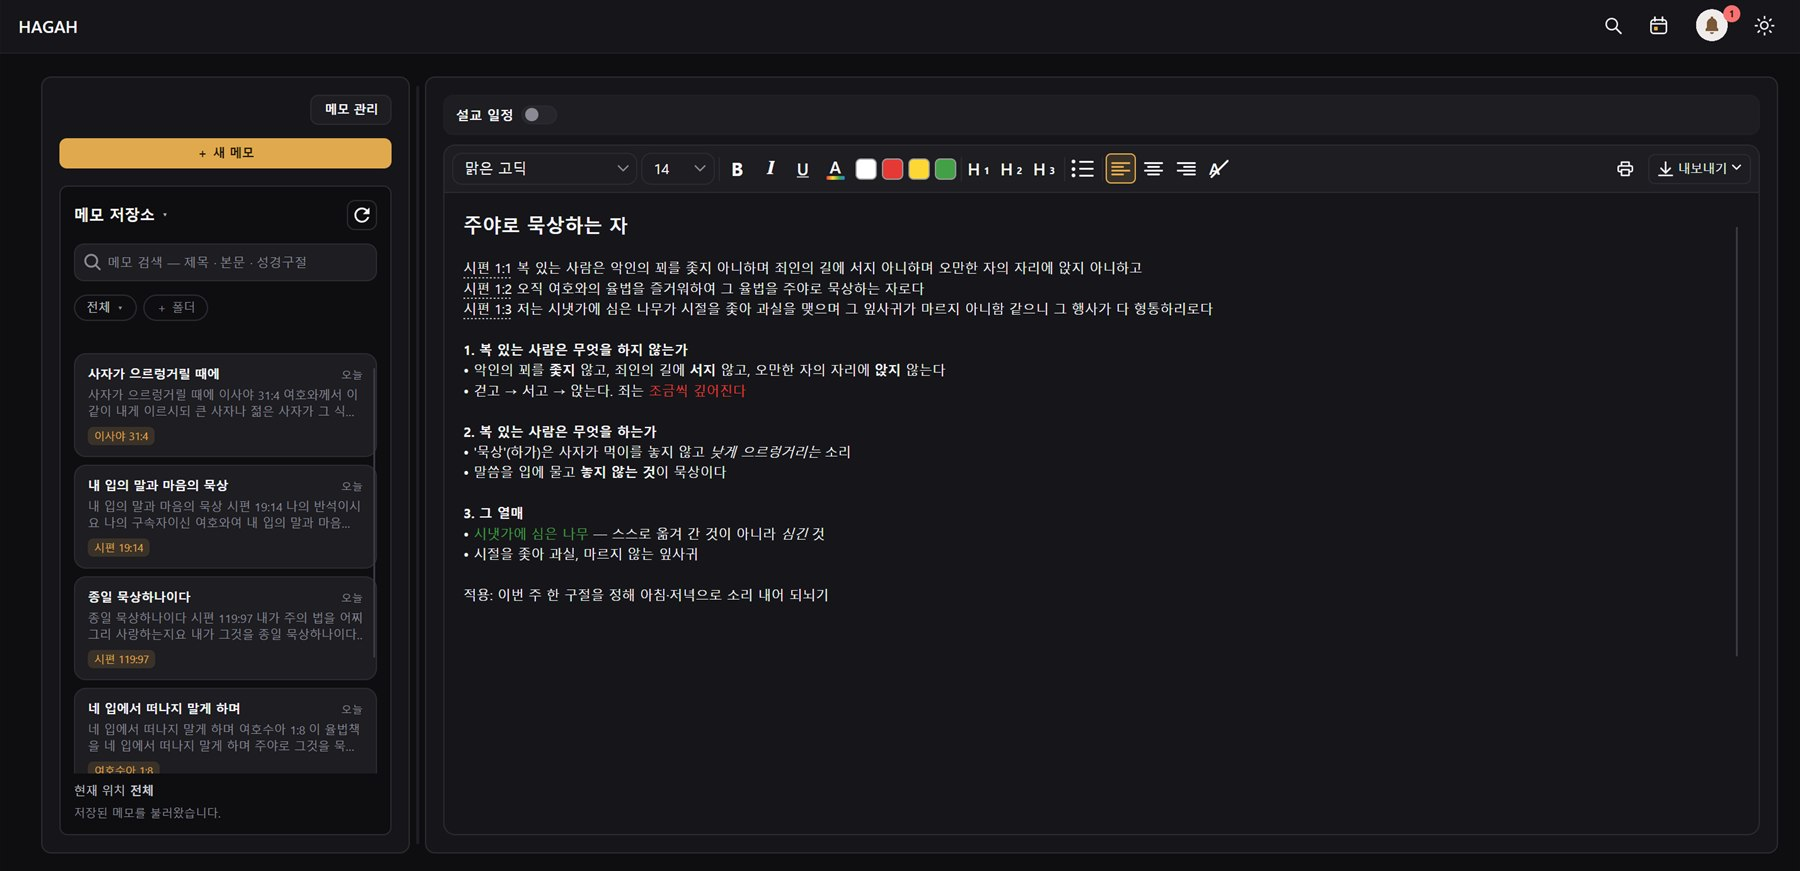
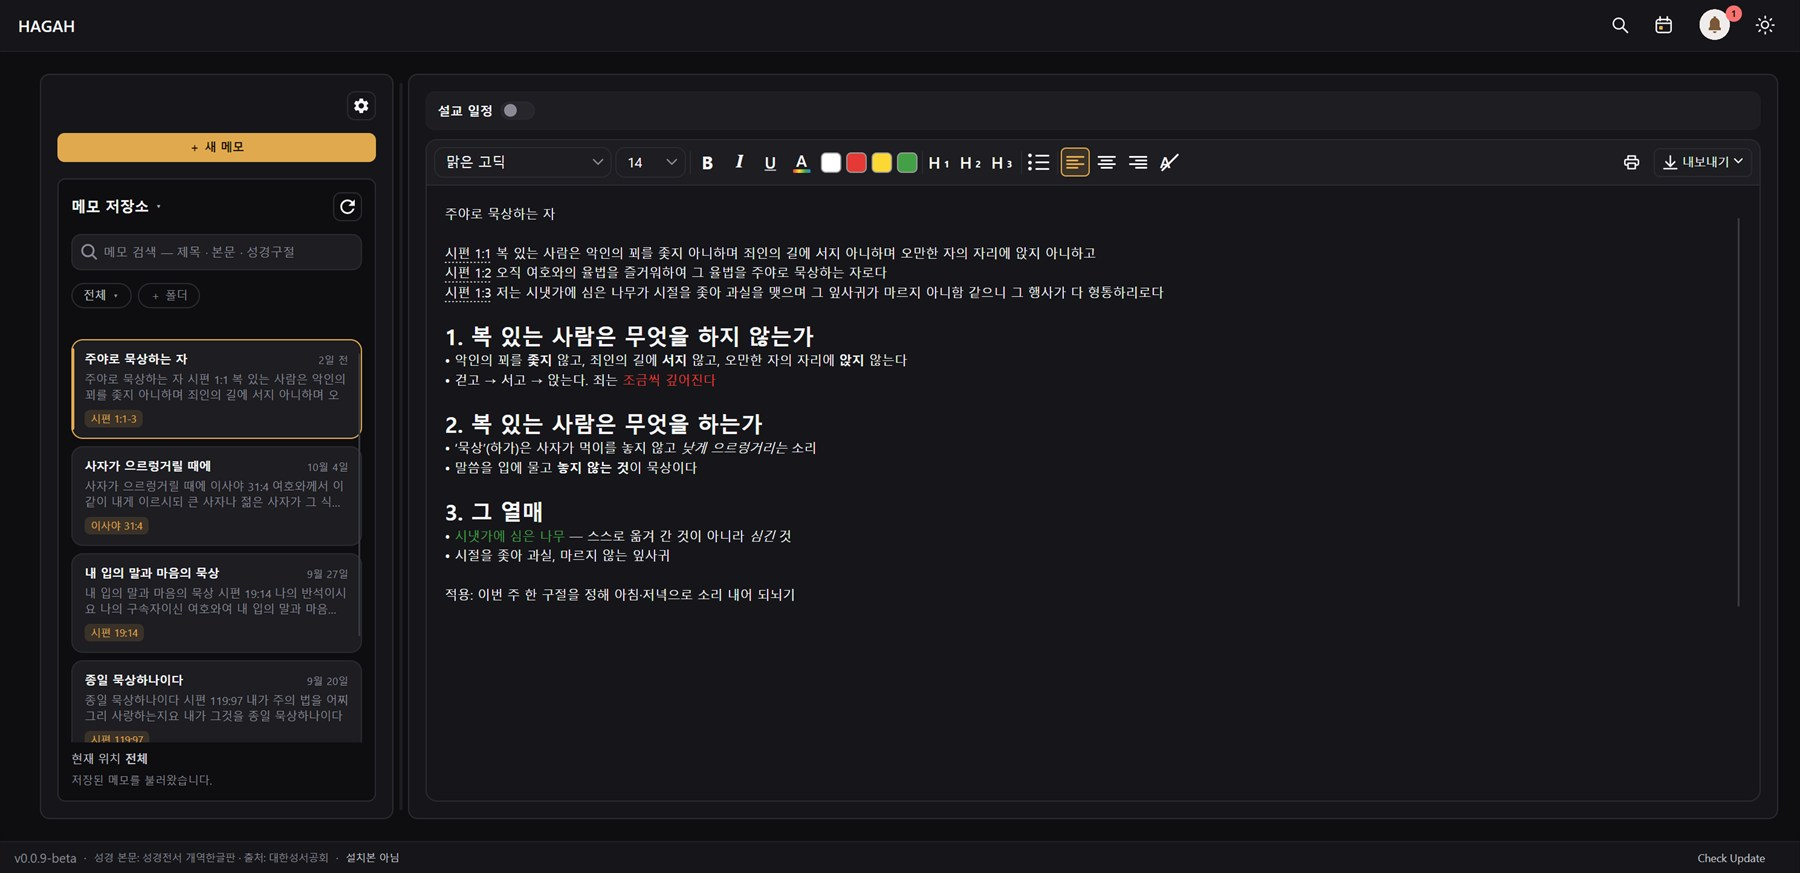
docs: 홈페이지 앱 화면을 다크·라이트 두 장 부채꼴로 펼친다

diff --git a/docs/index.html b/docs/index.html
@@ -262,7 +262,14 @@
     width: min(1068px, calc(100vw - var(--wide-gutter) * 2));
     margin: 36px 0 0 calc(50% - min(534px, 50vw - var(--wide-gutter)));
   }
+  /* 다크 · 라이트 두 장을 한 칸에 겹쳐 부채꼴로 편다. 아래 가운데 먼 점을 축으로 서로 반대로 기울인다.
+     data-front 가 앞에 설 장을 정하고, 뒤의 장을 누르면 자리를 바꾼다 */
+  .shot-fan {
+    --fan-x: 5.5%; --fan-front: 2.2deg; --fan-back: -3.2deg;
+    display: grid; padding: 22px 0 6px;
+  }
   .shot-frame {
+    grid-area: 1 / 1; justify-self: center; width: 89%;
     border-radius: 14px; overflow: hidden;
     background: #1b1b1f;
     border: 1px solid rgba(201, 154, 82, .45);
@@ -270,12 +277,39 @@
       0 2px 4px rgba(51, 29, 18, .12),
       0 28px 60px -24px rgba(51, 29, 18, .55),
       0 50px 90px -50px rgba(201, 154, 82, .6);
+    transform-origin: 50% 160%;
+    transition: transform .55s cubic-bezier(.2,.7,.2,1), filter .55s ease, box-shadow .55s ease;
   }
+  .shot-frame.light { background: #fff; }
+  .shot-fan[data-front="dark"] .shot-frame.dark,
+  .shot-fan[data-front="light"] .shot-frame.light { z-index: 2; transform: translateX(var(--fan-x)) rotate(var(--fan-front)); }
+  .shot-fan[data-front="dark"] .shot-frame.light,
+  .shot-fan[data-front="light"] .shot-frame.dark {
+    z-index: 1; transform: translateX(calc(var(--fan-x) * -1)) rotate(var(--fan-back));
+    filter: saturate(.9) brightness(.97);
+    box-shadow: 0 2px 4px rgba(51, 29, 18, .1), 0 20px 44px -26px rgba(51, 29, 18, .45);
+  }
+  /* 뒤의 장은 눌러서 앞으로 부를 수 있다는 것을 살짝 들어 올려 알린다 */
+  .shot-fan[data-front="dark"] .shot-frame.light:hover,
+  .shot-fan[data-front="light"] .shot-frame.dark:hover { transform: translateX(calc(var(--fan-x) * -1.25)) rotate(calc(var(--fan-back) - .8deg)); filter: none; }
+  .shot-frame a { display: block; }
+  .shot-frame a:focus-visible { outline: 2px solid var(--gold-deep); outline-offset: -4px; }
   .shot-bar { display: flex; align-items: center; gap: 7px; height: 30px; padding: 0 14px; background: #26262b; }
   .shot-bar i { width: 9px; height: 9px; border-radius: 50%; background: #4a4a52; }
   .shot-bar span { margin-left: 8px; font-size: .74rem; color: #a8a29a; letter-spacing: .08em; }
+  .shot-frame.light .shot-bar { background: #ececef; }
+  .shot-frame.light .shot-bar i { background: #c9c9cf; }
+  .shot-frame.light .shot-bar span { color: #8d877f; }
   .shot img { display: block; width: 100%; height: auto; }
-  .shot figcaption { margin-top: 14px; font-size: .86rem; color: var(--muted); }
+  .shot figcaption { margin-top: 18px; font-size: .86rem; color: var(--muted); }
+  @media (max-width: 640px) {
+    .shot-fan { --fan-x: 4%; --fan-front: 1.6deg; --fan-back: -2.4deg; padding-top: 14px; }
+    .shot-frame { width: 92%; border-radius: 10px; }
+    .shot-bar { height: 22px; }
+  }
+  @media (prefers-reduced-motion: reduce) {
+    .shot-frame { transition: none; }
+  }
 
   /* ── 기능 둘러보기: 그림 + 설명 카드를 가로로 넘긴다. 폭은 실제 앱 화면과 같게 펼친다 ── */
   .tour {
@@ -520,11 +554,17 @@
   <p class="tagline rise d2">설교 메모 전용 앱</p>
 
   <figure class="shot rise d2">
-    <div class="shot-frame">
-      <div class="shot-bar" aria-hidden="true"><i></i><i></i><i></i><span>HAGAH</span></div>
-      <a href="screenshot.jpg" target="_blank" rel="noopener"><img src="screenshot.jpg" alt="Hagah 편집기 화면 — 왼쪽에 설교 메모 목록, 오른쪽에 시편 1편 설교 메모" width="1800" height="871"></a>
+    <div class="shot-fan" id="shot-fan" data-front="dark">
+      <div class="shot-frame light">
+        <div class="shot-bar" aria-hidden="true"><i></i><i></i><i></i><span>HAGAH</span></div>
+        <a href="screenshot-light.jpg" target="_blank" rel="noopener"><img src="screenshot-light.jpg" alt="밝은 테마의 Hagah 편집기 화면 — 왼쪽에 설교 메모 목록, 오른쪽에 시편 1편 설교 메모" width="1800" height="873"></a>
+      </div>
+      <div class="shot-frame dark">
+        <div class="shot-bar" aria-hidden="true"><i></i><i></i><i></i><span>HAGAH</span></div>
+        <a href="screenshot.jpg" target="_blank" rel="noopener"><img src="screenshot.jpg" alt="어두운 테마의 Hagah 편집기 화면 — 왼쪽에 설교 메모 목록, 오른쪽에 시편 1편 설교 메모" width="1800" height="873"></a>
+      </div>
     </div>
-    <figcaption>실제 앱 화면 · 구절을 치면 개역한글 본문이 바로 들어옵니다</figcaption>
+    <figcaption>실제 앱 화면 · 어두운 테마와 밝은 테마 · 뒤의 화면을 누르면 앞으로 나옵니다</figcaption>
   </figure>
 
   <section class="row row-a rise d3" aria-label="Hagah 이름의 뜻">
@@ -1052,6 +1092,20 @@
       // API 한도(시간당 60회) 초과 등 — 릴리스 페이지로 보낸다
       TARGETS.forEach(function (t) { fill(t, null); });
     });
+})();
+
+// 앱 화면 부채꼴: 뒤의 장을 누르면 앞으로 부르고, 앞의 장은 그림 원본을 연다
+(function () {
+  var fan = document.getElementById("shot-fan");
+  if (!fan) return;
+  fan.addEventListener("click", function (e) {
+    var frame = e.target.closest(".shot-frame");
+    if (!frame) return;
+    var theme = frame.classList.contains("light") ? "light" : "dark";
+    if (fan.dataset.front === theme) return;
+    e.preventDefault();
+    fan.dataset.front = theme;
+  });
 })();
 </script>
 </body>
